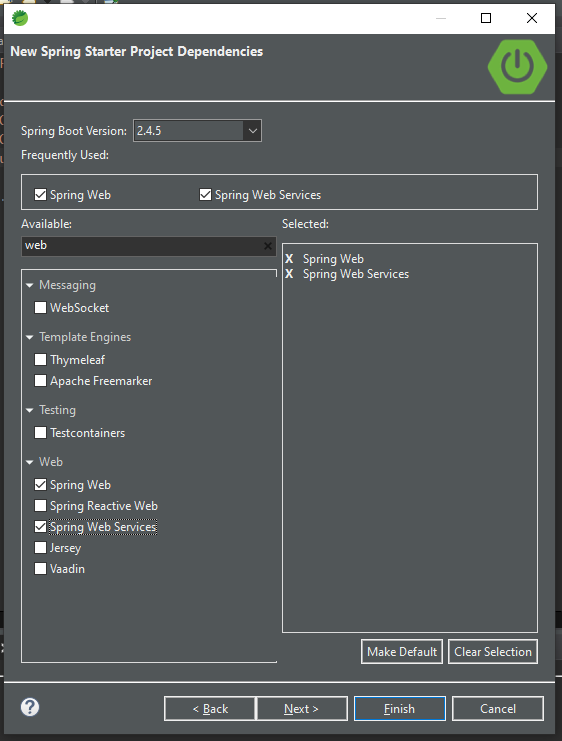
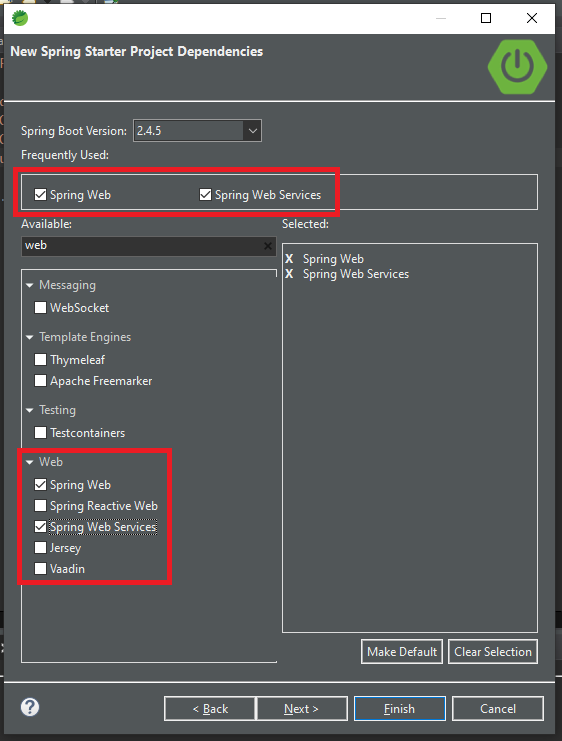
Initial set-up section

Changed region(s): [[0.0, 0.2173, 0.605, 0.3104], [0.0302, 0.5897, 0.3327, 0.807]]

diff --git a/README.md b/README.md
@@ -24,7 +24,9 @@ Select/Search for the following packages:
 
 Last, click `Finish`
 
-![Spring Tool Starter Project set-up dependencies](/screencaps/dependencies.png "Spring Tool Starter Project set-up dependencies")
+![Spring Tool Starter Project set-up dependencies](https://github.com/kcwebers/SpringStarterProjectSetUp/blob/main/screencaps/dependencies.PNG "Spring Tool Starter Project set-up dependencies")
+
+## If you select these options often, they may appear above in the `Frequently Used` section!
 
 ### Step 1 - pom.xml
 
